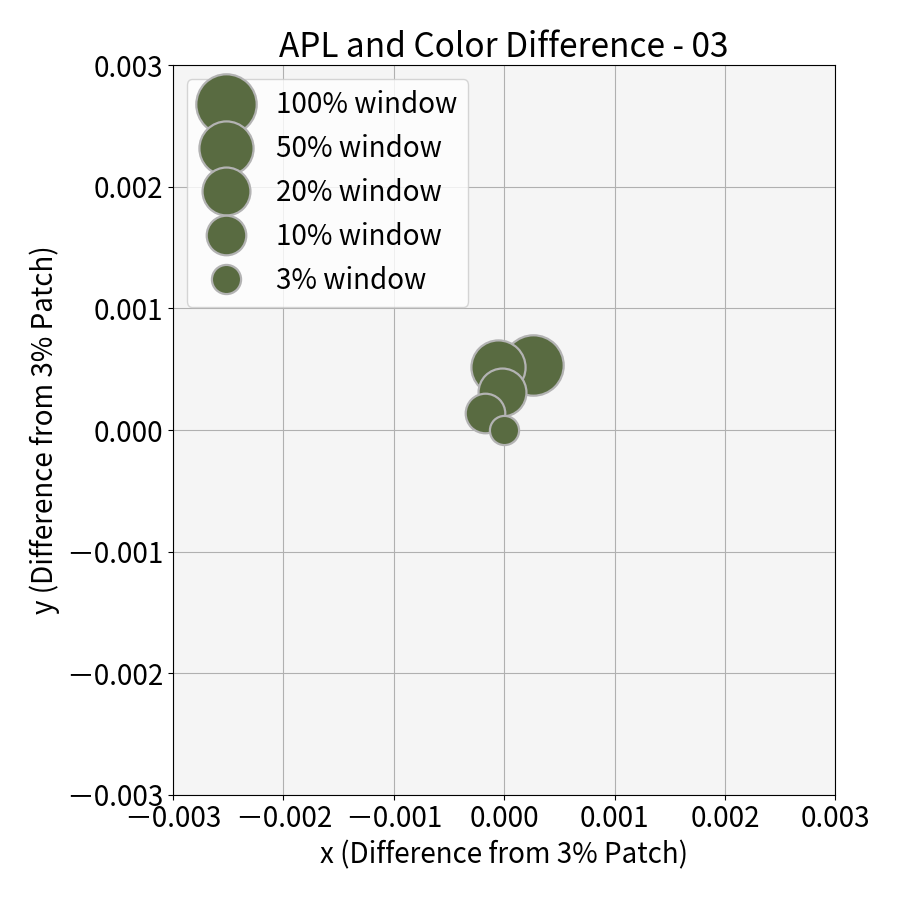
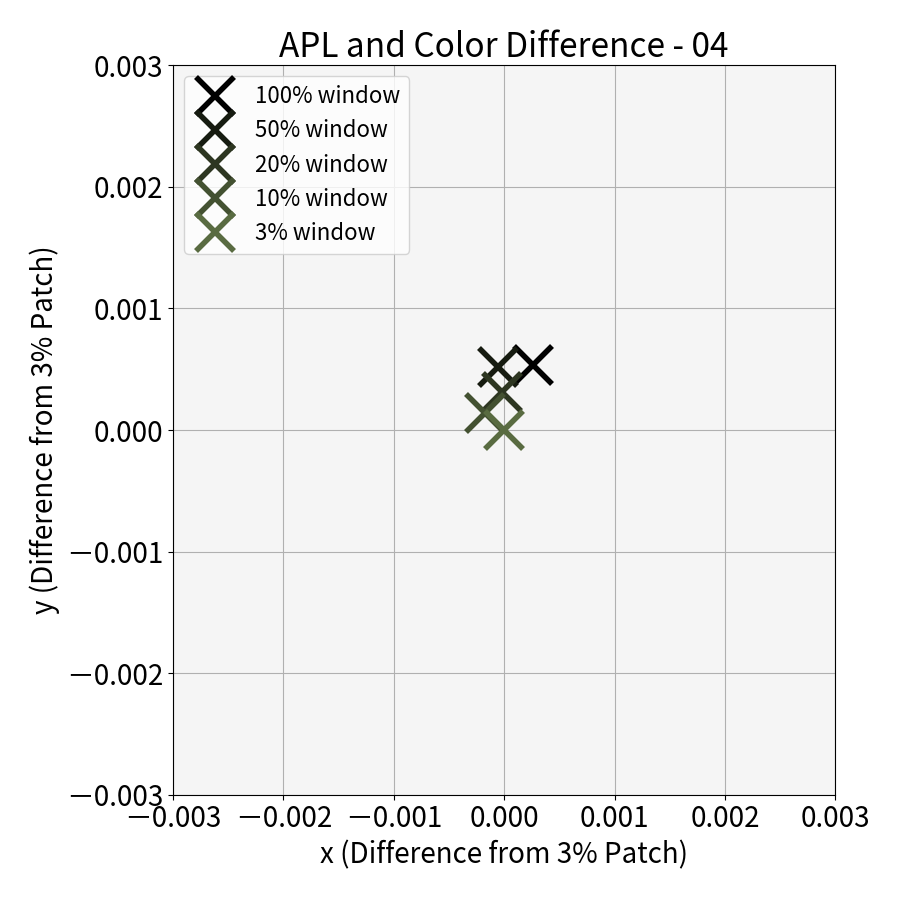
#232 nemui...

Changed region(s): [[0.2178, 0.0622, 0.5289, 0.3422], [0.4978, 0.3733, 0.6222, 0.4978], [0.7778, 0.0311, 0.8089, 0.0622]]

diff --git a/2024/03_Measure_Moitor_Spec_with_Resolve/plot_measure_result.py b/2024/03_Measure_Moitor_Spec_with_Resolve/plot_measure_result.py
@@ -237,8 +237,13 @@ def plot_color_checker_with_over_apl():
         plot_color_checker_with_over_apl_core(
             cc_idx=cc_idx, data=measured_xyY, patch_color=cc_rgb[cc_idx],
             window_size_list=window_size_list)
+        plot_color_checker_Y_with_over_apl_core(
+            cc_idx=cc_idx, data=measured_xyY, patch_color=cc_rgb[cc_idx],
+            window_size_list=window_size_list)
+        # break
         
     concat_apl_cc_plot_data()
+    concat_apl_cc_Y_plot_data()
         
 
 def concat_apl_cc_plot_data():
@@ -266,7 +271,7 @@ def plot_color_checker_with_over_apl_core(
         fontsize=20,
         figsize=(9, 9),
         bg_color=(0.96, 0.96, 0.96),
-        graph_title=f"APL and Color Difference - {cc_idx:02d}",
+        graph_title=f"APL and Color Difference - {cc_idx+1:02d}",
         graph_title_size=None,
         xlabel="x (Difference from 3% Patch)",
         ylabel="y (Difference from 3% Patch)",
@@ -281,20 +286,65 @@ def plot_color_checker_with_over_apl_core(
     
     size_list = np.array([29, 26, 23, 19, 14]) * 1.5
     alpha_list = [0.3, 0.5, 0.7, 0.8, 1.0]
-    alpha_list = [1.0, 1.0, 1.0, 1.0, 1.0]
+    marker_list = ['x', 'x', "x", 'x', "x"]
+    color_rate = np.linspace(0, 1, 5)
+    ms_list = np.array([20, 20, 20, 20, 20]) * 1.4
     for w_idx, window_size in enumerate(window_size_list):
         label = f"{int(window_size*100)}% window"
-        plot_color = np.array(patch_color)
+        plot_color = np.array(patch_color) * color_rate[w_idx]
         edge_color = (0.7, 0.7, 0.7) if np.max(plot_color) < 0.6 else 'k'
         ax1.plot(
-            diff_data[w_idx, 0], diff_data[w_idx, 1], 'o', label=label,
-            ms=size_list[w_idx], mec=edge_color, mfc=plot_color, mew=1.6,
-            alpha=alpha_list[w_idx])
+            diff_data[w_idx, 0], diff_data[w_idx, 1], marker_list[w_idx],
+            label=label, mec=plot_color, mfc=plot_color, mew=4,
+            ms=ms_list[w_idx],
+            # ms=size_list[w_idx], mec=edge_color, mfc=plot_color, mew=1.6,
+            # alpha=alpha_list[w_idx]
+        )
         
     fname = f"./img/APL_Patch_{cc_idx+1:02d}.png"
     print(fname)
     pu.show_and_save(
         fig=fig, legend_loc='upper left', save_fname=fname, show=False,
+        fontsize=16)
+
+
+def plot_color_checker_Y_with_over_apl_core(
+        cc_idx, data, patch_color, window_size_list):
+    num_of_data = len(data)
+    categories = [f"{int(size * 100)}%" for size in window_size_list]
+
+    x = np.linspace(0, 1, num_of_data)[::-1]
+    diff_data = np.zeros_like(data)
+    diff_data[..., 2] = data[..., 2]
+    y = diff_data[..., 2]
+    y = y[::-1]
+
+    fig, ax1 = pu.plot_1_graph(
+        fontsize=20,
+        figsize=(9, 9),
+        bg_color=(0.96, 0.96, 0.96),
+        graph_title=f"Luminance (Color Patch - {cc_idx+1:02d})",
+        graph_title_size=None,
+        xlabel="Window Size",
+        ylabel="Luminance [nits]",
+        axis_label_size=None,
+        legend_size=17,
+        xlim=None,
+        ylim=None,
+        xtick_size=None, ytick_size=None,
+        linewidth=2,
+        minor_xtick_num=None,
+        minor_ytick_num=None)
+    
+    plot_color = np.array(patch_color)
+    ax1.bar(
+        categories, y,
+        width=0.5, color=plot_color, edgecolor='k')
+        
+    fname = f"./img/APL_Patch_Y_{cc_idx+1:02d}.png"
+    print(fname)
+    pu.show_and_save(
+        fig=fig, legend_loc=None, save_fname=fname, show=False,
         fontsize=20)
 
 
@@ -304,7 +354,7 @@ def concat_cc_plot_data():
         h_buf = []
         for h_idx in range(6):
             idx = v_idx * 6 + h_idx
-            fname = f"./img/scatter_single_patch_{idx:02d}.png"
+            fname = f"./img/scatter_single_patch_{idx+1:02d}.png"
             img = tpg.img_read_as_float(fname)
             h_buf.append(img)
         v_buf.append(np.hstack(h_buf))
@@ -312,7 +362,23 @@ def concat_cc_plot_data():
 
     tpg.img_wirte_float_as_16bit_int(
         "./img/scatter_single_patch_all.png", out_img)
-        
+
+
+def concat_apl_cc_Y_plot_data():
+    v_buf = []
+    for v_idx in range(3):
+        h_buf = []
+        for h_idx in range(6):
+            idx = v_idx * 6 + h_idx
+            fname = f"./img/APL_Patch_Y_{idx+1:02d}.png"
+            img = tpg.img_read_as_float(fname)
+            h_buf.append(img)
+        v_buf.append(np.hstack(h_buf))
+    out_img = np.vstack(v_buf)
+
+    tpg.img_wirte_float_as_16bit_int(
+        "./img/APL_Patch_Y_all.png", out_img)
+
 
 if __name__ == '__main__':
     os.chdir(os.path.dirname(os.path.abspath(__file__)))
